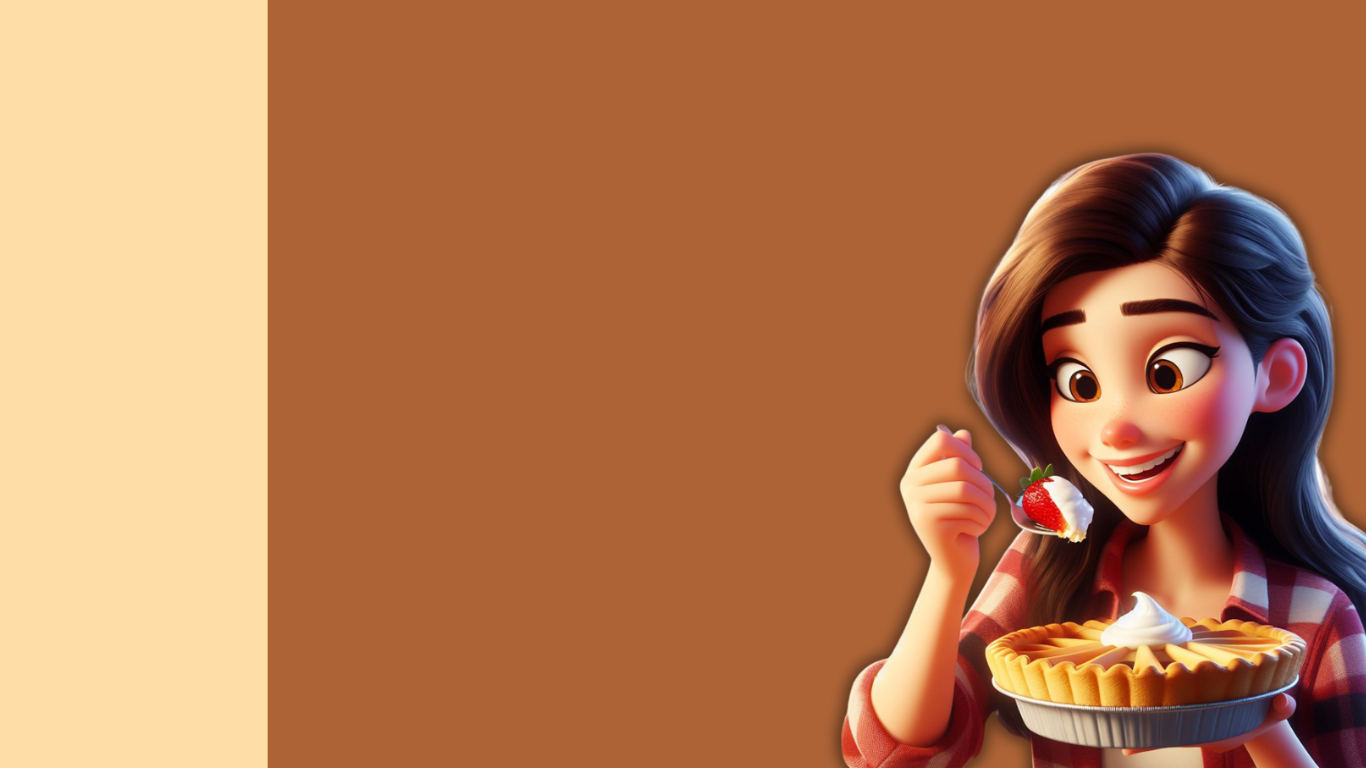
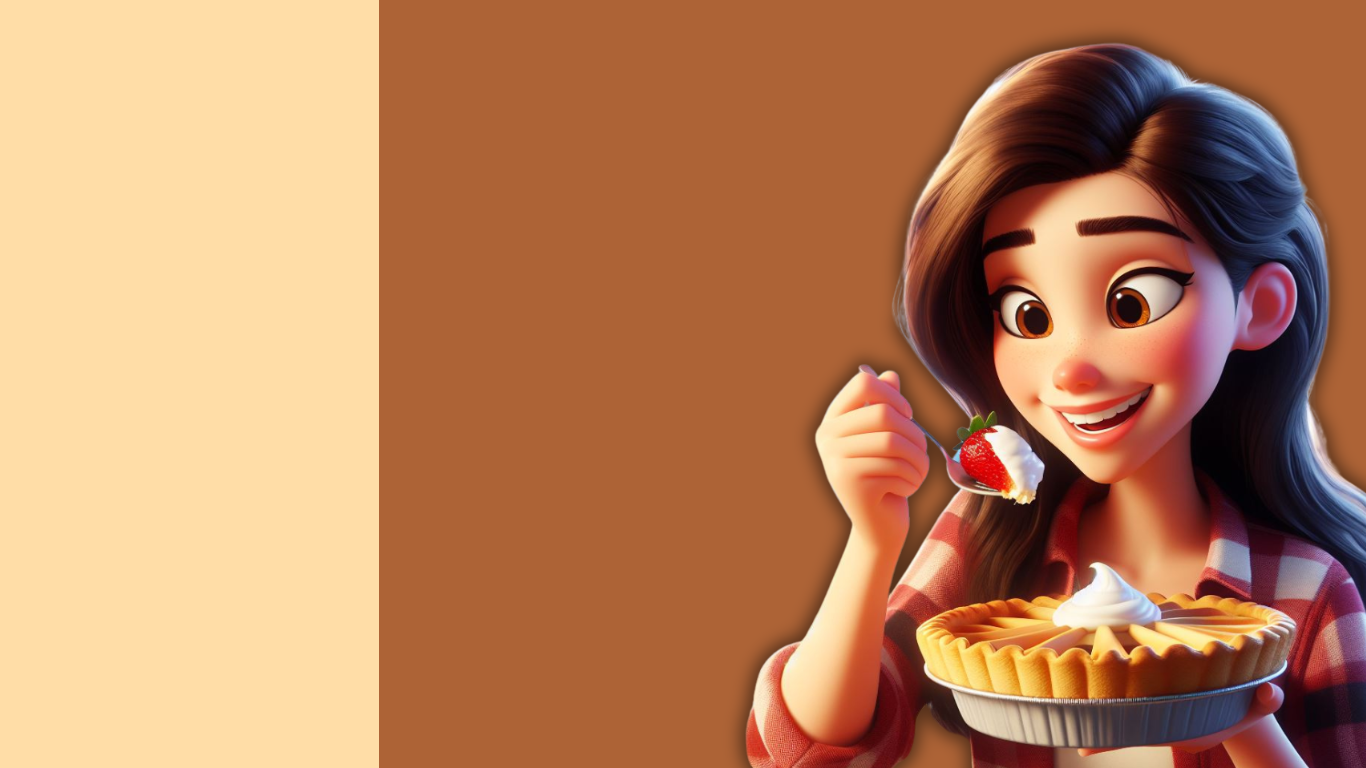
alterações tela de cadastro
falta responsividade

diff --git a/main/static/cadastroU.css b/main/static/cadastroU.css
@@ -29,25 +29,23 @@ body {
     display: flex;
     flex-direction: column;
     gap: 30px;
-    margin-right: 750px;
+    margin-right: 500px;
     margin-top: 50px;
     align-items: center;
     width: 400px;
-    height: 600px;
+    height: 630px;
     background-color: #FFDDA7;
     border-radius: 30px;
-    justify-content:center;
+    justify-content:flex-start;
 }
 
 .cadastro > h1 {
     color: #AD6336;
     font-family: "montserrat";
+    padding-top: 50px;
 }
 
-.cadastro > img {
-    height: 700px;
-    width: 620px;
-}
+
 
 .form-cadastro {
     display: flex;
@@ -61,11 +59,49 @@ fieldset {
     display: flex;
     flex-direction: column;
     border: none;
-    gap: 10px;
+    gap: 5px;
     
 }
 
 label {
     border: none;
     color: #00000090;
+    padding-top: 10px;
 }
+
+input {
+    border-radius: 8px;
+    background-color: #FFEFC6;
+    width: 335px;
+    height: 45px;
+    text-align: center;
+}
+
+button {
+    display: flex;
+    width: 200px;
+    height: 45px;
+    background-color: #AD6336;
+    color: #FFDDA7;
+    border: none;
+    border-radius: 8px;
+    cursor: pointer;
+    margin-top: 20px;
+    align-items: center;
+    justify-content: center;
+    align-content: center;
+    margin-left: 65px;
+    margin-bottom: 0px;
+}
+
+#but {
+    width: 200px;
+    height: 10px;
+    background-color: #FFDDA7;
+    border: none;
+    color: #AD6336;
+    cursor: pointer;
+    margin-top: opx;
+}
+
+

diff --git a/main/templates/cadastroU.html b/main/templates/cadastroU.html
@@ -33,6 +33,12 @@
                         <label for="senha">Senha:</label>
                         <input type="password" id="senha" name="senha" placeholder="Crie uma senha" required>
                     </fieldset>
+                    <fieldset>
+                        <button class="cadastrar" id="cadastrar" type="submit"><h3>Criar conta</h3></button>
+                    </fieldset>
+                    <fieldset>
+                        <button class="loginB" id="but" type="submit"><p>Já tem uma conta? Entrar</p></button>
+                    </fieldset>
                 </form>
             </div>
 

diff --git a/main/static/home.css b/main/static/home.css
@@ -165,7 +165,7 @@ nav {
     
     .logo-container img {
         max-width: 100%;
-        height: 150px;
+        height: 180px;
         margin-left: 100px;
     }
 
